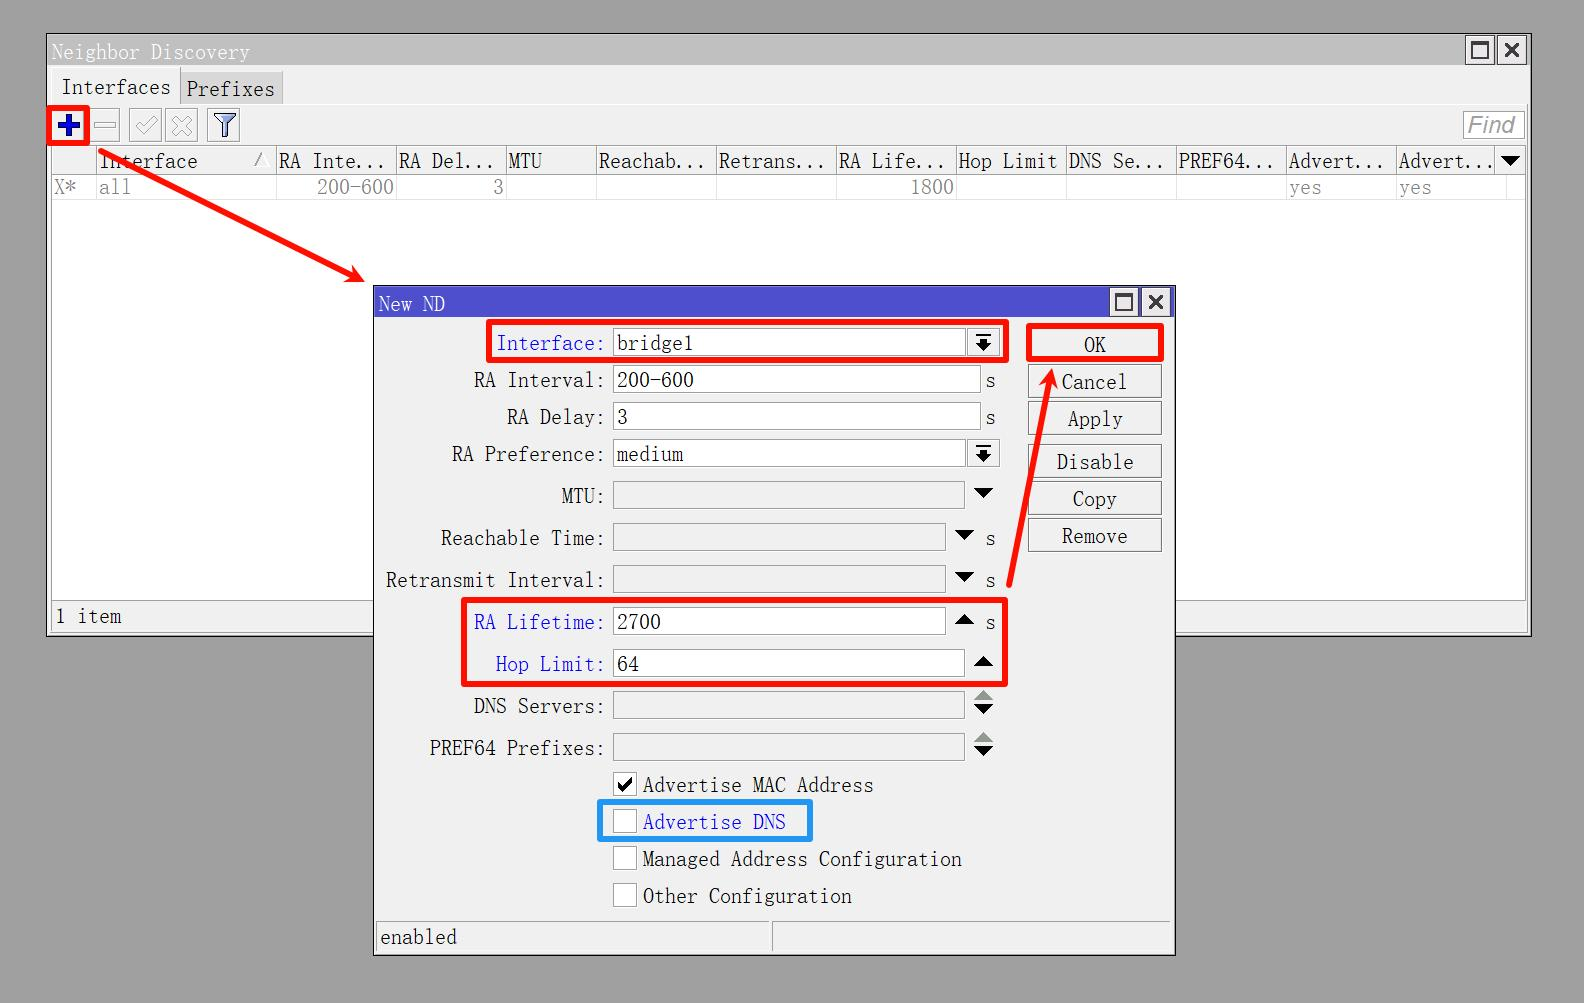
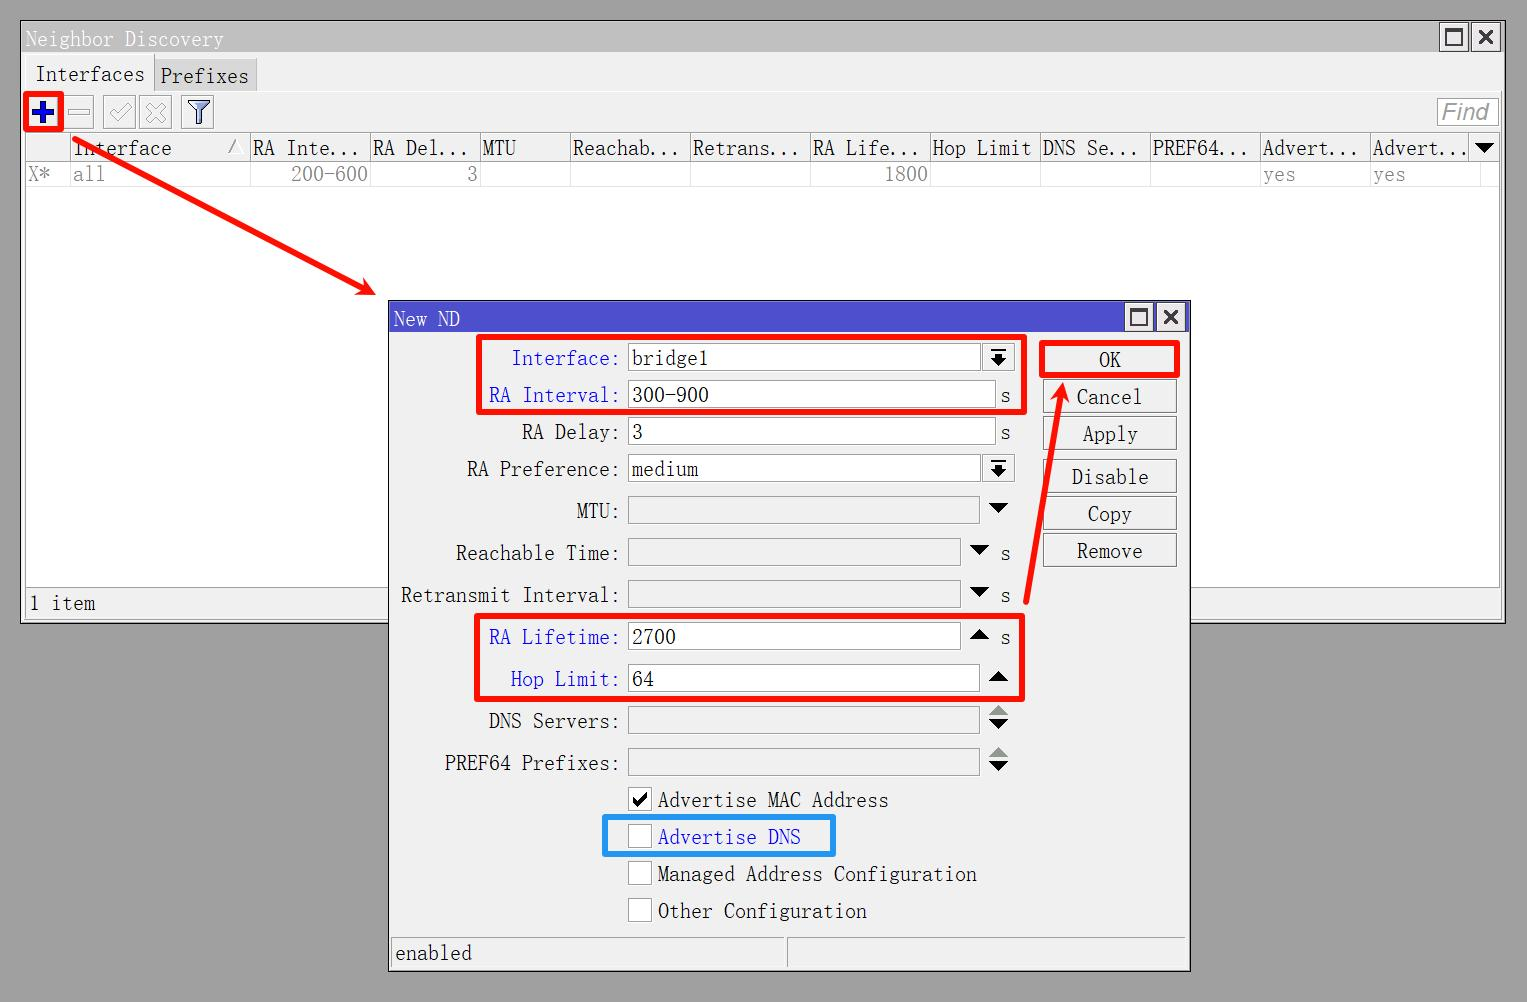
同步更新

Changed region(s): [[0.0, 0.0, 0.9849, 0.99], [0.1847, 0.2475, 0.2155, 0.2784], [0.1539, 0.2166, 0.1847, 0.2475]]

diff --git a/05.设置防火墙.md b/05.设置防火墙.md
@@ -43,7 +43,9 @@
 
 6. 启用了 `ssh` 服务的 “强加密” 模式 `strong-crypto`  
 
-7. 对 `mac-server` 相关服务进行调整，会影响 Winbox 对 RouterOS 的探测发现  
+7. 关闭了 `smb` 服务的 “访客” 模式 `allow-guests` 以及默认分享，并调整了 `smb` 服务的网络接口  
+
+8. 对 `mac-server` 相关服务进行调整，将影响 Winbox 对 RouterOS 的探测发现  
    - 关闭了 `mac-server` 的 `allowed-interface-list`  
    - 关闭了 `mac-winbox` 的 `allowed-interface-list`  
    - 关闭了 `mac-server` 的 `ping`  

diff --git a/08.设置IPv6.md b/08.设置IPv6.md
@@ -151,7 +151,7 @@
 |参数|值|说明|
 |--|--|--|
 |Interface|`bridge1`|选择 `ND` 通告使用的接口|
-|RA Interval|`200-600`|设置 `ND` 通告的时间间隔，时间单位为秒|
+|RA Interval|`300-900`|设置 `ND` 通告的时间间隔，时间单位为秒|
 |RA Lifetime|`2700`|设置 `ND` 通告的生存周期，时间单位为秒|
 |Hop Limit|`64`|缺省情况下，将设备初始发送 IPv6 单播报文的跳数限制为 64|
 |DNS Servers| - |`ND` 通告的 IPv6 DNS 服务器地址|
